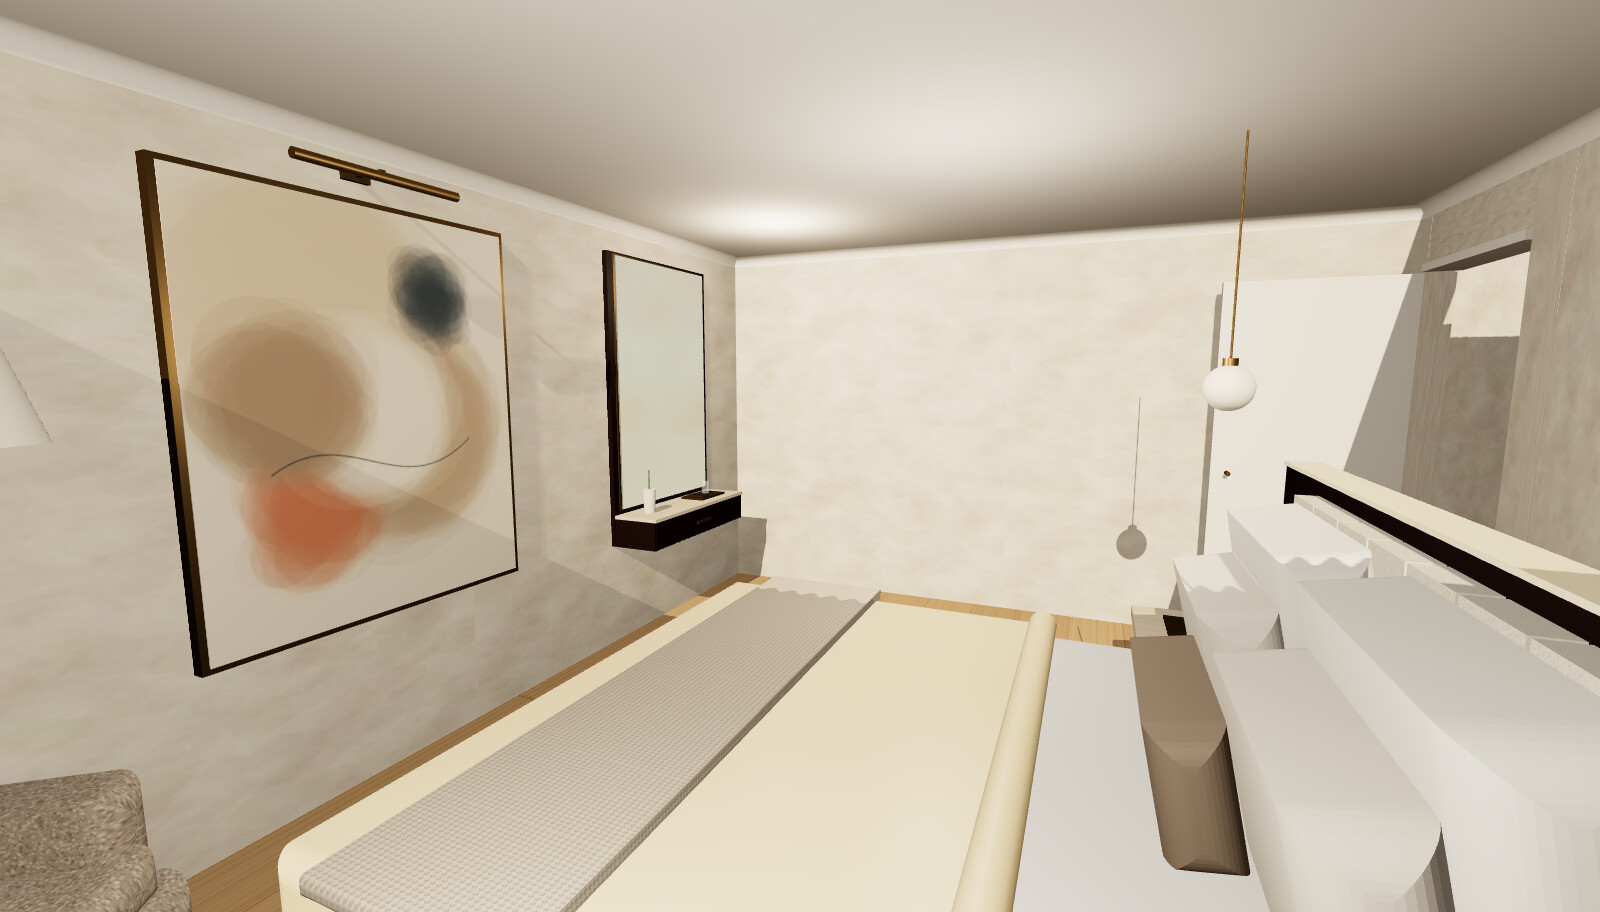
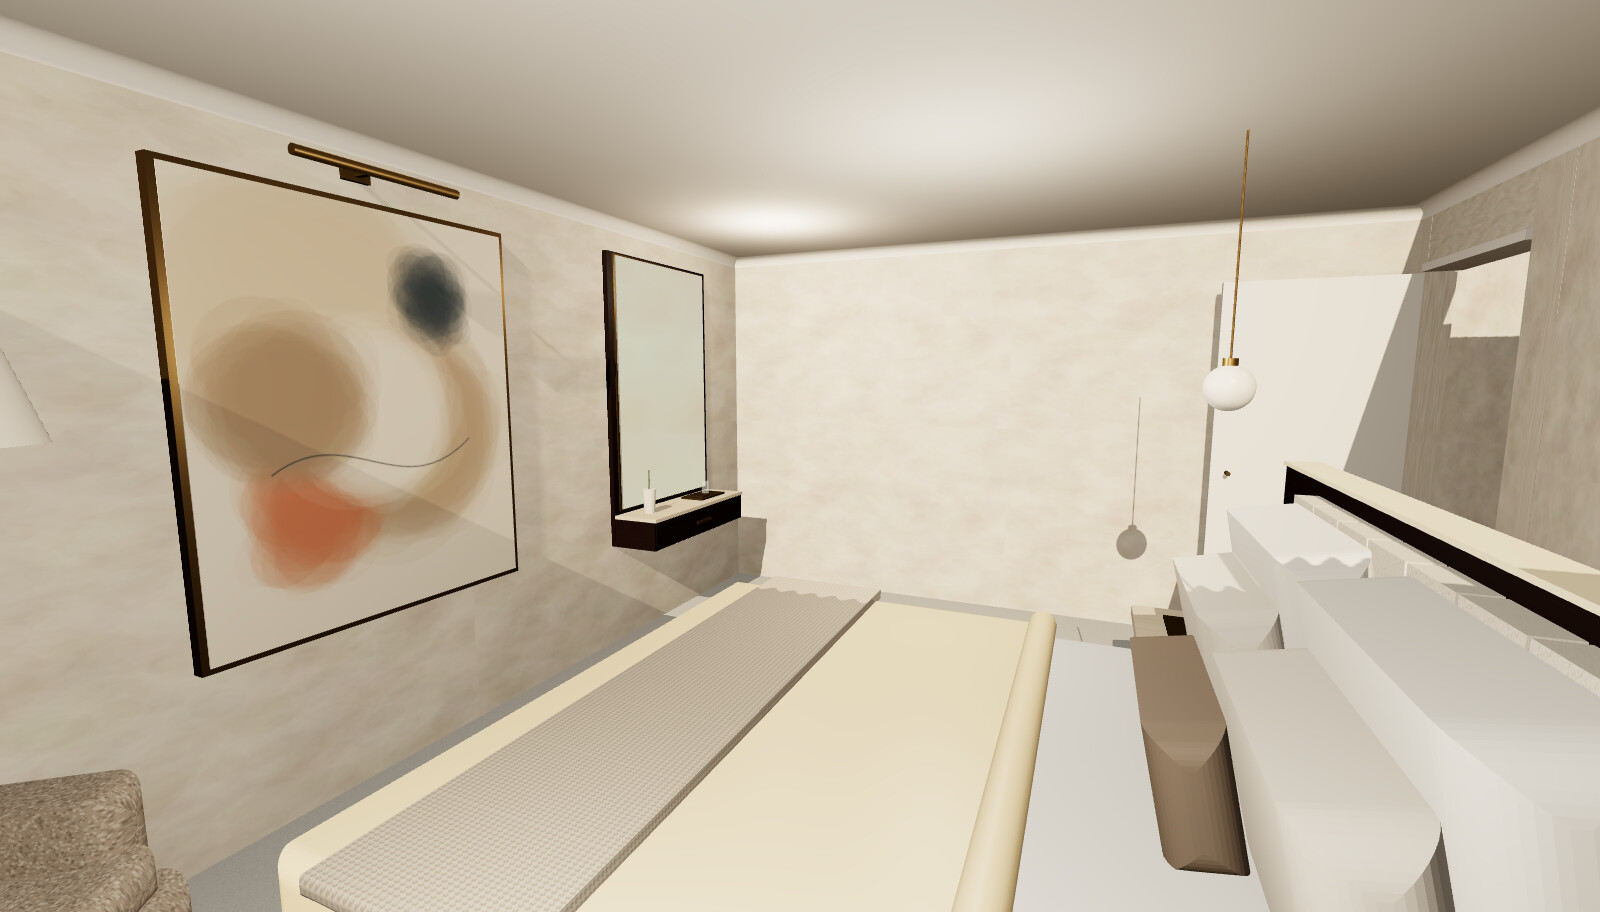
Change flooring to wall-to-wall light grey carpet, remove rugs
Claude-Session: https://claude.ai/code/session_01P4LkCESWoGV8P5QgBbWSmy

diff --git a/renders/bedroom-1-3d.html b/renders/bedroom-1-3d.html
@@ -55,6 +55,8 @@ const velvet = mat('#9a8a7a',0.6,0.05);
 const knit = mat('#ffffff',1,0,{map: canvasTex(256,256,(g,w,h)=>{ g.fillStyle='#d8cdbd'; g.fillRect(0,0,w,h); for(let x=0;x<w;x+=16){ for(let y=0;y<h;y+=12){ g.fillStyle='rgba(120,105,88,0.35)'; g.beginPath(); g.ellipse(x+8,y+6,6,5,0,0,7); g.fill(); g.fillStyle='rgba(255,250,240,0.35)'; g.beginPath(); g.ellipse(x+6,y+4,3,2,0,0,7); g.fill(); } } },4,4)});
 const brass = mat('#b08d57',0.3,0.9);
 const black = mat('#101114',0.35,0.3);
+const carpet = mat('#ffffff',1,0,{map: canvasTex(512,512,(g,w,h)=>{ g.fillStyle='#c4c4c1'; g.fillRect(0,0,w,h); const r=rnd(29);
+  for(let i=0;i<14000;i++){ const v=r(); g.fillStyle=v<0.5?`rgba(235,235,232,${0.25+r()*0.2})`:`rgba(150,150,148,${0.2+r()*0.2})`; g.fillRect(r()*w,r()*h,1+r()*1.5,1+r()*2); } },8,10)});
 const creamRug = mat('#ffffff',1,0,{map: canvasTex(256,256,(g,w,h)=>{ g.fillStyle='#ece5d8'; g.fillRect(0,0,w,h); const r=rnd(23); for(let i=0;i<5000;i++){ g.fillStyle=`rgba(${r()<0.5?255:200},${r()<0.5?250:190},${r()<0.5?240:175},0.3)`; g.fillRect(r()*w,r()*h,1,2); } },6,6)});
 const linen = mat('#cbbfae',0.95,0,{side:THREE.DoubleSide});
 const sheerM = mat('#fffdf8',0.9,0,{transparent:true,opacity:0.38,side:THREE.DoubleSide});
@@ -62,7 +64,7 @@ const glassM = new THREE.MeshPhysicalMaterial({color:'#fff6e6',roughness:0.15,tr
 
 // ---------- Room shell ----------
 const RW=4.0, RL=4.9, CH=2.4, T=0.12;
-box(0,RW,-0.01,0,0,RL,oak,false,true);                    // floor
+box(0,RW,-0.01,0,0,RL,carpet,false,true);                 // floor: wall-to-wall light grey carpet
 box(0,RW,CH,CH+0.02,0,RL,ceilingM,false,true);            // flat ceiling
 box(-T,0,0,CH,0,RL,plaster);                              // west wall
 box(0,RW,0,CH,-T,0,plaster);                              // north wall
@@ -77,7 +79,7 @@ box(0.85,3.15,0.56,0.6,RL,RL+0.04,mat('#e9e4dc',0.6));     // sill
 box(1.98,2.02,0.56,2.1,RL+0.05,RL+0.08,frameM,false);       // mullion
 // robes walls beyond opening (so you see a corridor)
 box(RW,RW+1.3,0,CH,2.28,2.4,plaster); box(RW,RW+1.3,0,CH,3.3,3.42,plaster); box(RW+1.3,RW+1.42,0,CH,2.28,3.42,mat('#efe9e0',0.9));
-box(RW,RW+1.3,-0.01,0,2.3,3.4,oak,false,true);
+box(RW,RW+1.3,-0.01,0,2.3,3.4,carpet,false,true);
 // outside: soft garden backdrop
 // hallway behind entry door
 box(RW,RW+1.4,-0.01,0,0,1.1,oak,false,true); box(RW,RW+1.4,CH,CH+0.02,0,1.1,ceilingM,false);
@@ -112,7 +114,7 @@ drape(0.7,1.05,RL-0.16,linen,6,0.03); drape(2.95,3.3,RL-0.16,linen,6,0.03);   //
 drape(1.0,3.0,RL-0.1,sheerM,22,0.02);                                       // sheer drawn across
 
 // ---------- Rug ----------
-box(0.83,3.08,0,0.012,1.63,4.07,creamRug,false,true);
+// (no rug - wall-to-wall carpet)
 
 // ---------- King bed (centre z = 2.85) ----------
 const bz0=1.885, bz1=3.815, bx0=1.05, bx1=3.15;
@@ -176,7 +178,7 @@ rbox(0.8,0.38,0.78,0.08,taupeBoucle,0,0.22,0,nook);            // seat base
 rbox(0.66,0.12,0.6,0.05,taupeBoucle,0,0.46,0.06,nook);           // seat cushion
 const bk=rbox(0.8,0.48,0.2,0.09,taupeBoucle,0,0.66,-0.3,nook); bk.rotation.x=-0.12;     // back
 const al=rbox(0.14,0.28,0.66,0.06,taupeBoucle,-0.34,0.52,-0.02,nook); const ar=rbox(0.14,0.28,0.66,0.06,taupeBoucle,0.34,0.52,-0.02,nook);
-const rug2=new THREE.Mesh(new THREE.CylinderGeometry(0.62,0.62,0.012,64),creamRug); rug2.position.set(0.55,0.006,4.25); rug2.receiveShadow=true; scene.add(rug2);
+// (no rug under chair)
 cyl(1.43,0.25,4.58,0.2,0.2,0.5,travertine); cyl(1.43,0.52,4.58,0.21,0.21,0.04,travertine);
 box(1.33,1.5,0.54,0.57,4.48,4.66,mat('#c9b48e',0.8)); cyl(1.52,0.58,4.62,0.04,0.035,0.08,mat('#fdfbf6',0.3));
 cyl(0.15,0.75,3.95,0.012,0.012,1.5,brass,8); cyl(0.15,0.01,3.95,0.12,0.14,0.02,brass);
